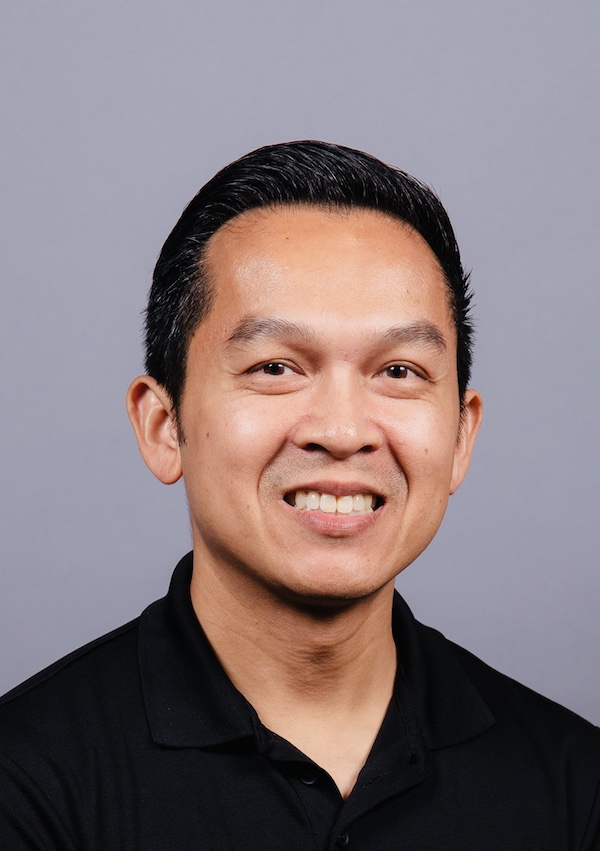
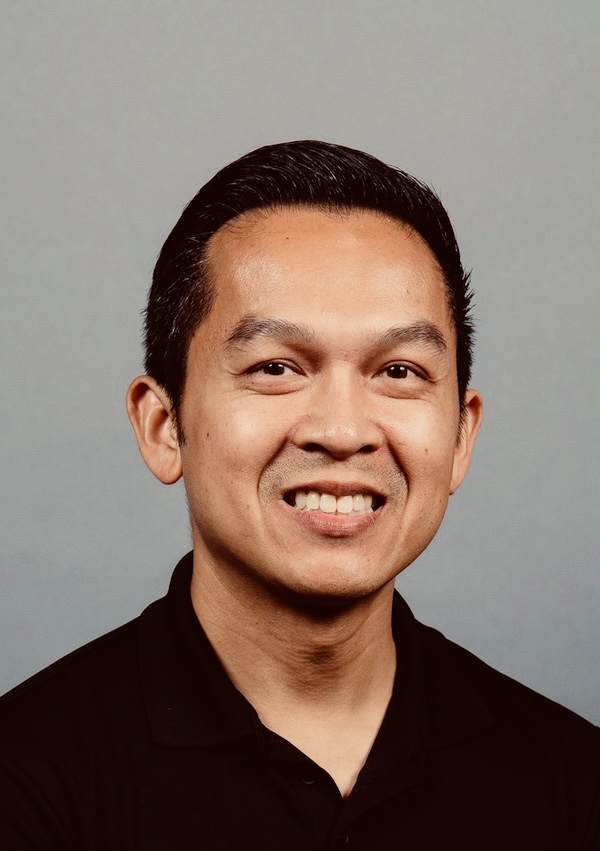
Update profile photo, light theme contrast, tile opacity
- Replace photo with professional headshot
- Light theme: darker warm sand backgrounds (#dedad2) for better contrast
  vs cards (#f0ede6), stronger border (#b8b3a6), deeper text (#0e1c2a)
- Tile cursor: increase MAX_ALPHA 0.09→0.18 for more visible hover effect

diff --git a/style.css b/style.css
@@ -892,23 +892,23 @@ img { display: block; max-width: 100%; }
    Warm cream palette — darker teal accent readable on white
    ─────────────────────────────────────────────────────────── */
 [data-theme="light"] {
-  --bg:        #f5f3ee;   /* warm cream */
-  --bg-alt:    #eceae3;   /* warm sand */
-  --bg-card:   #ffffff;
-  --border:    #dbd7ce;   /* warm gray border */
-  --accent:    #0d9488;   /* dark teal — readable on white */
+  --bg:        #dedad2;   /* deeper warm sand — clear contrast against cards */
+  --bg-alt:    #d0ccc2;   /* darker warm alt */
+  --bg-card:   #f0ede6;   /* warm off-white card — not stark white */
+  --border:    #b8b3a6;   /* visible warm border */
+  --accent:    #0d9488;   /* dark teal */
   --accent2:   #0d9488;
-  --text:      #1a2636;   /* deep navy */
-  --text-muted:#5a6b7c;
+  --text:      #0e1c2a;   /* deep navy for max legibility */
+  --text-muted:#445566;
 }
 
 /* Backgrounds */
 [data-theme="light"] #navbar.scrolled {
-  background: rgba(245,243,238,0.92);
+  background: rgba(222,218,210,0.92);
   border-bottom: 1px solid var(--border);
 }
 [data-theme="light"] .nav-links {
-  background: rgba(245,243,238,0.98);
+  background: rgba(222,218,210,0.98);
 }
 
 /* Nav interactions */

diff --git a/script.js b/script.js
@@ -27,7 +27,7 @@ if (isTouchDevice) {
 } else {
   const tileCtx  = tileCanvas.getContext('2d');
   const TILE     = 44;
-  const MAX_ALPHA = 0.09;
+  const MAX_ALPHA = 0.18;
   const FADE     = 0.016;
   const tiles    = new Map();
 
